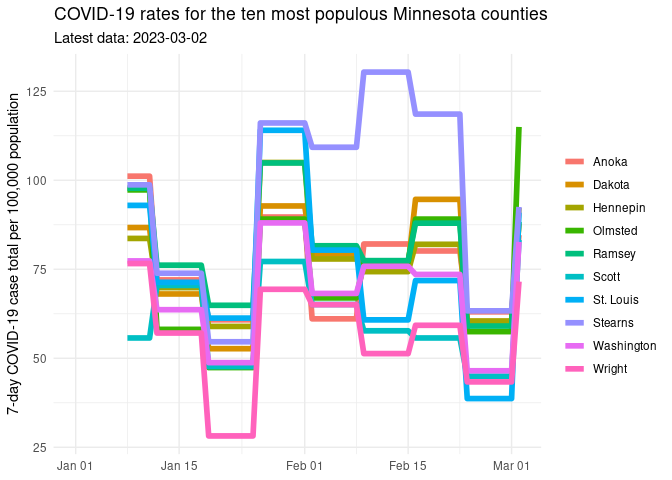
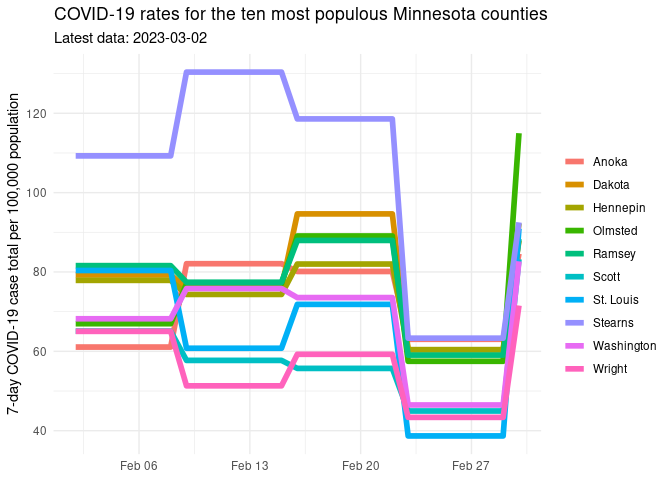
Updated report

diff --git a/README.md b/README.md
@@ -1,7 +1,7 @@
 Minnesota COVID Report
 ================
 
-Report last run: 2023-03-03 17:27:37
+Report last run: 2023-03-03 21:25:16
 
 ## Introduction
 
@@ -54,7 +54,8 @@ top10_pop <- pops %>% filter(state == "Minnesota") %>%
 ## Make the plot
 rate_data %>%
     filter(state == "Minnesota", 
-         county %in% top10_pop$county) %>%
+         county %in% top10_pop$county,
+         date > Sys.Date() - 30)%>%
   ggplot(aes(x = date, y = rate_last, color = county)) +
   geom_line(linewidth = 2) +
   xlab(NULL) +
